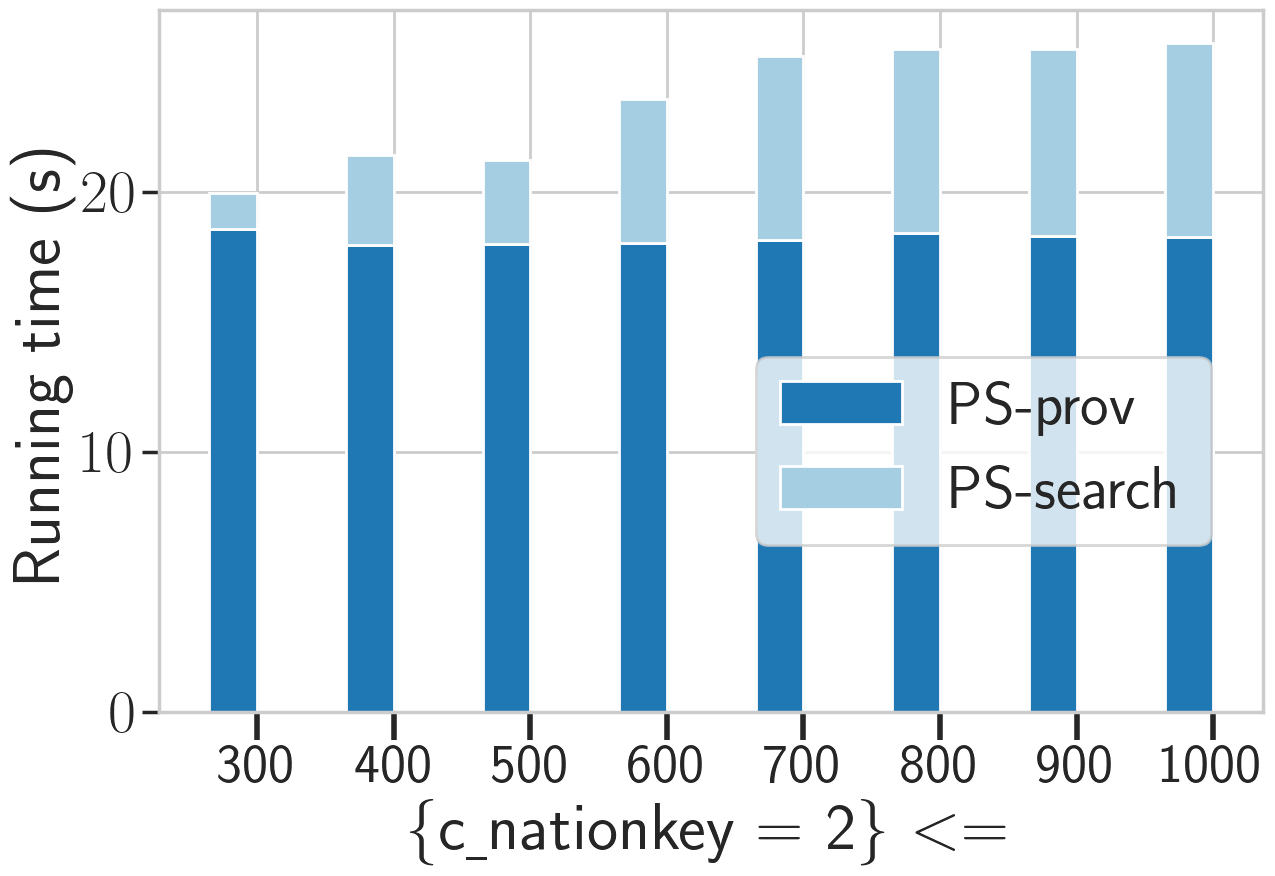
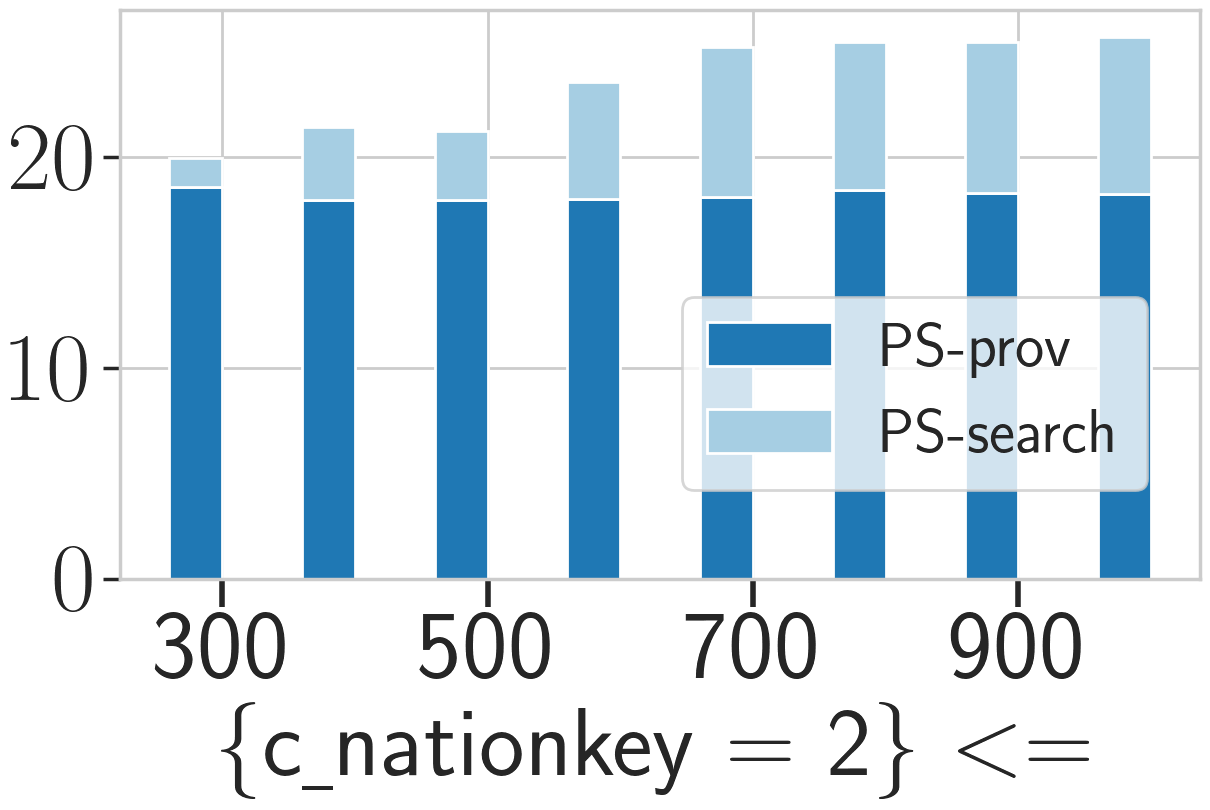
1G fix fig

diff --git a/Experiment/TPCH/1G/constraint_change/q3_contract/fig.py b/Experiment/TPCH/1G/constraint_change/q3_contract/fig.py
@@ -7,8 +7,6 @@ import matplotlib.ticker as ticker
 import datetime
 from matplotlib.dates import AutoDateLocator, AutoDateFormatter, date2num
 
-plt.rc('text', usetex=True)
-plt.rc('font', family='serif')
 
 sns.set_palette("Paired")
 # sns.set_palette("deep")
@@ -21,6 +19,8 @@ plt.rcParams['ytick.left'] = True
 
 color = ['C1', 'C0', 'C3', 'C2']
 label = ['PS-prov', "PS-search", "BL-prov", "BL-search"]
+plt.rc('text', usetex=True)
+plt.rc('font', size=70, weight='bold')
 
 f_size = (14, 10)
 
@@ -59,12 +59,12 @@ def run(query, size, constraint):
             execution_timebl1.append(0)
             execution_timebl2.append(0)
     # x_list = [19941230, 19950115, 19950130, 19950215, 19950230, 19950315, 19950330, 19950415]
-    x_list = [300, 400, 500, 600, 700, 800, 900, 1000]
+    x_list = [300,  500,  700,  900]
 
     print(x_list, execution_timeps1, execution_timeps2)
 
     index = np.arange(len(execution_timeps1))
-    bar_width = 0.35
+    bar_width = 0.4
 
     fig, ax = plt.subplots(1, 1, figsize=f_size)
 
@@ -81,12 +81,11 @@ def run(query, size, constraint):
     # plt.bar(index + bar_width, execution_timebl2, bar_width, bottom=execution_timebl1,
     #         color=color[3], label=label[3])
     #
-
-    plt.xticks(np.arange(0, 8) + bar_width/2, x_list, rotation=0, fontsize=40)
+    plt.xticks(np.arange(0, 8, 2) + bar_width/2, x_list, rotation=0, fontsize=70)
+    plt.yticks(fontsize=70, weight='bold')
 
     plt.xlabel(r'\{c\underline{ }nationkey = 2\} $<=$')
-    plt.ylabel('Running time (s)')
-    plt.legend(loc='upper right', bbox_to_anchor=(0.98, 0.55))
+    plt.legend(loc='upper right', bbox_to_anchor=(0.98, 0.55), fontsize=45)
     # plt.legend(loc="best")
     plt.tight_layout()
     fig_path = "constraint_change_q" + str(query) + "_" + size + "_" + constraint + ".png"
